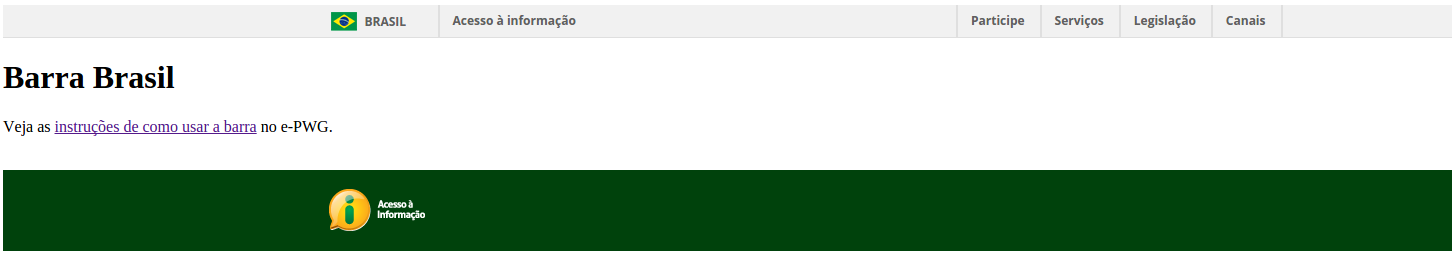
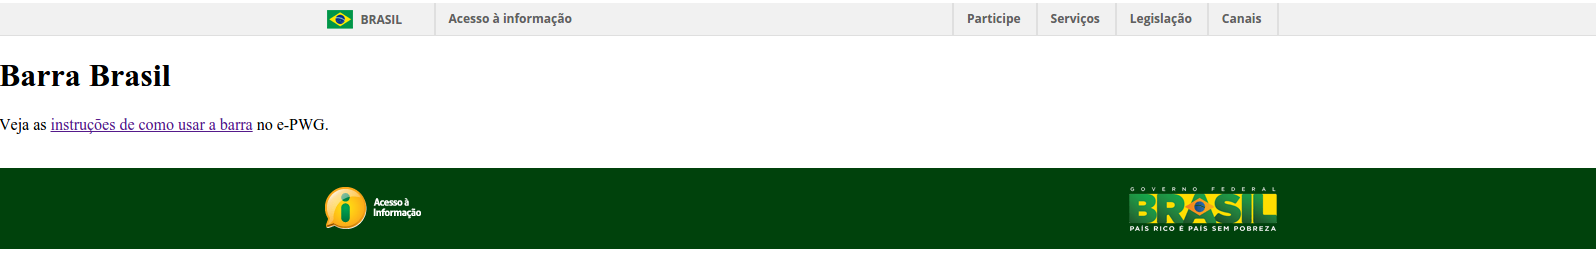
Atualizacao do printscreen da barra/rodape e do README para nova página.

diff --git a/README.md b/README.md
@@ -9,7 +9,8 @@ Barra dinâmica do governo brasileiro. Nesse projeto está incluído o código d
 
 # Exemplo de uso da barra/rodapé
 
-O exemplo de como utilizar a barra no seu sítio está publicado em [Manual da Barra do Governo Brasileiro](http://epwg.governoeletronico.gov.br/barra/). 
+O exemplo de como utilizar a barra no seu sítio está publicado em [Manual da Barra do Governo Brasileiro](http://barra.governoeletronico.gov.br/).
+A página de testes está disponível em [Teste da Barra do Governo Brasileiro](http://barra.governoeletronico.gov.br/teste/).
 Você pode contribuir e melhorar o exemplo no [Código do Manual da Barra do Governo Brasileiro](http://github.com/govbr/brasil.gov.manualbarra/).
 
 # Como gerar a barra/rodapé
